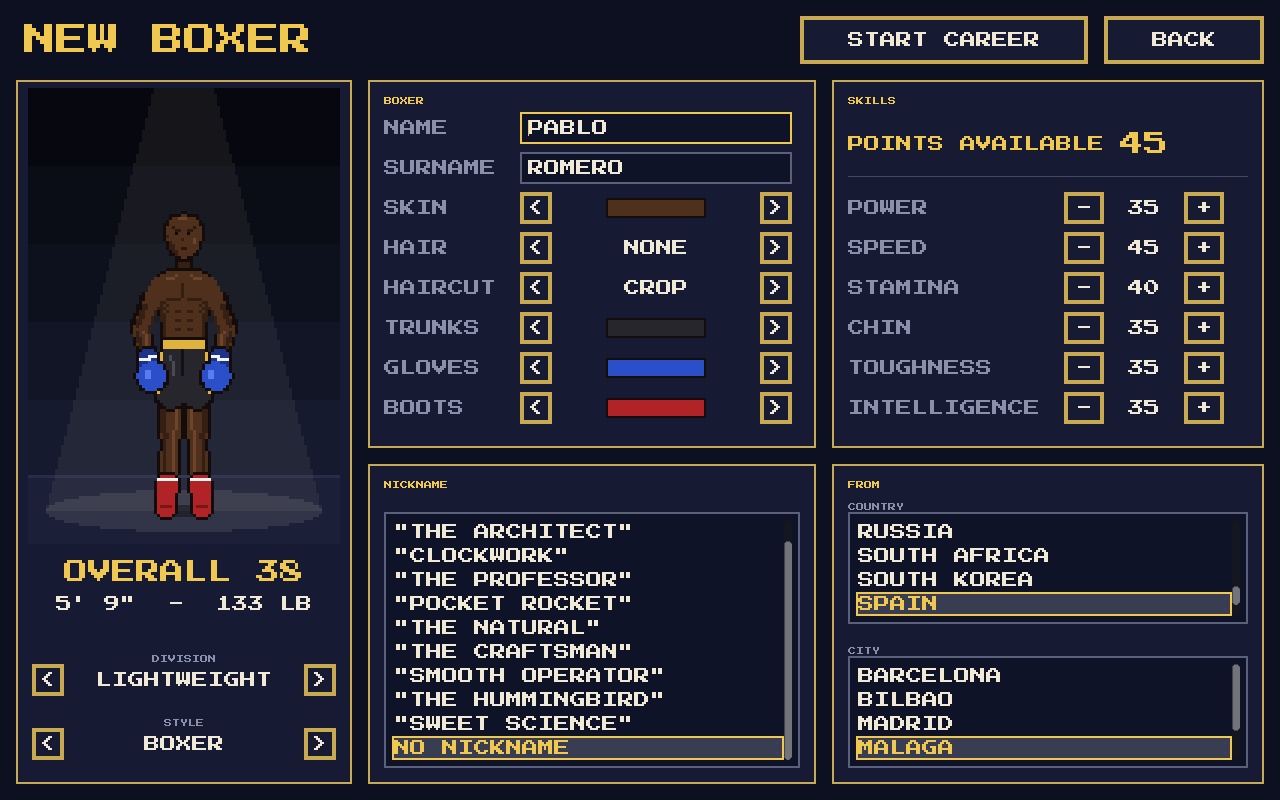
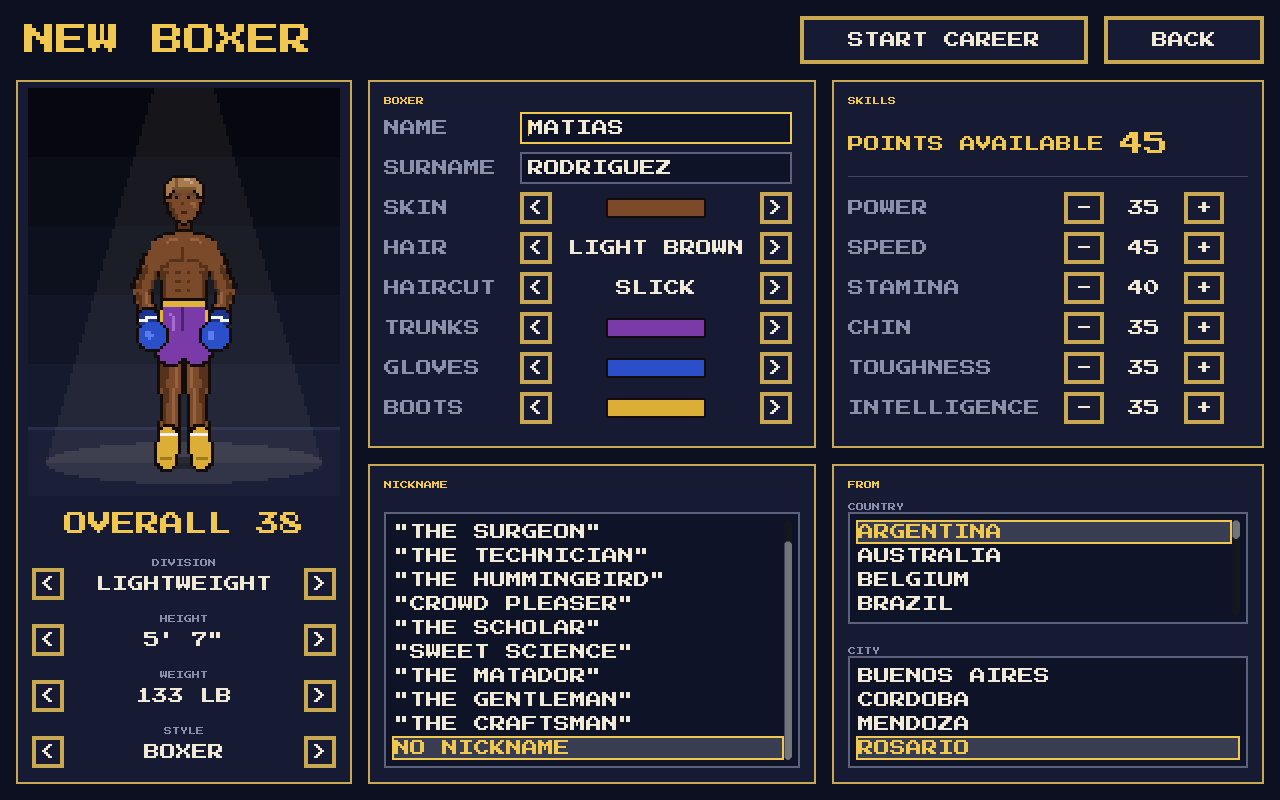
0.1.37: Height and weight pickers on the new boxer screen
Claude-Session: https://claude.ai/code/session_01PF6KKrB4uHprcLjw7ppdzy

diff --git a/TODO.md b/TODO.md
@@ -9,7 +9,7 @@ Effort: **XS** under an hour, **S** a few hours, **M** about a day,
 |----|------|--------|-------|
 | 1  | ~~Show the boxer's skills (power, speed, stamina, chin, strength, intelligence) on the career page~~ | S | **Done in 0.1.36.** The header is full: either a compact skills strip under it or a SKILLS panel, with this week's training gains shown against them. |
 | 2  | ~~Make the current week and month clearer on the career page~~ | XS | **Done in 0.1.36.** Move "WEEK 1 OF JANUARY 2027" to a large line at the top of the page (and show "FIGHT NIGHT" there in the last week). |
-| 3  | Choose height and weight on the new boxer screen | S | < > pickers kept inside his division's range. Height changes reach (longer jab, harder to get inside); weight could nudge power against speed. |
+| 3  | ~~Choose height and weight on the new boxer screen~~ | S | **Done in 0.1.37.** < > pickers kept inside his division's range. Height changes reach (longer jab, harder to get inside); weight could nudge power against speed. |
 
 ## Left over from earlier
 

diff --git a/README.md b/README.md
@@ -441,8 +441,12 @@ with a random look, name and hometown, all of which can be changed:
   BOOTS, each with < and >. His gloves are his own: in the ring he wears
   them whichever corner he is in (the computer's boxers wear their
   corner's red or blue).
-* Under his portrait: DIVISION (Lightweight to start with) and STYLE (the
-  standard types).
+* Under his portrait: DIVISION (Lightweight to start with), HEIGHT and
+  WEIGHT (an inch or a pound at a time - 5 lb at heavyweight - kept inside
+  his division's range: lightweight 5' 5" - 5' 10" and 130 - 136 lb,
+  middleweight 5' 7" - 6' 6" and 154 - 160 lb, heavyweight 6' 1" - 6' 8"
+  and 200 - 290 lb; a taller man has a longer reach, a heavier one is
+  drawn bigger), and STYLE (the standard types).
 * NICKNAME: ten made up for him, or NO NICKNAME.
 * FROM: a country, then one of its cities.
 * SKILLS: every skill starts at 35 (his hidden recovery, how much his

diff --git a/CHANGELOG.md b/CHANGELOG.md
@@ -4,6 +4,16 @@ Every build bumps the last number of the version while the game is a
 prototype. The version lives in `project.godot` (`application/config/version`)
 and is shown on the main menu.
 
+## 0.1.37
+
+* New boxer: HEIGHT and WEIGHT pickers under the portrait, with DIVISION
+  and STYLE. Height moves an inch at a time and weight a pound (5 lb at
+  heavyweight), always inside his division's range; changing division
+  picks a new size inside the new range. A taller boxer has a longer
+  reach in the ring. The picture loses some empty spotlight at the top to
+  make room (the boxer is drawn the same size), and the size line under
+  OVERALL has gone, since the pickers show it. (TODO 3)
+
 ## 0.1.36
 
 * Career page: the date is now a large line across the top (WEEK 2 OF
